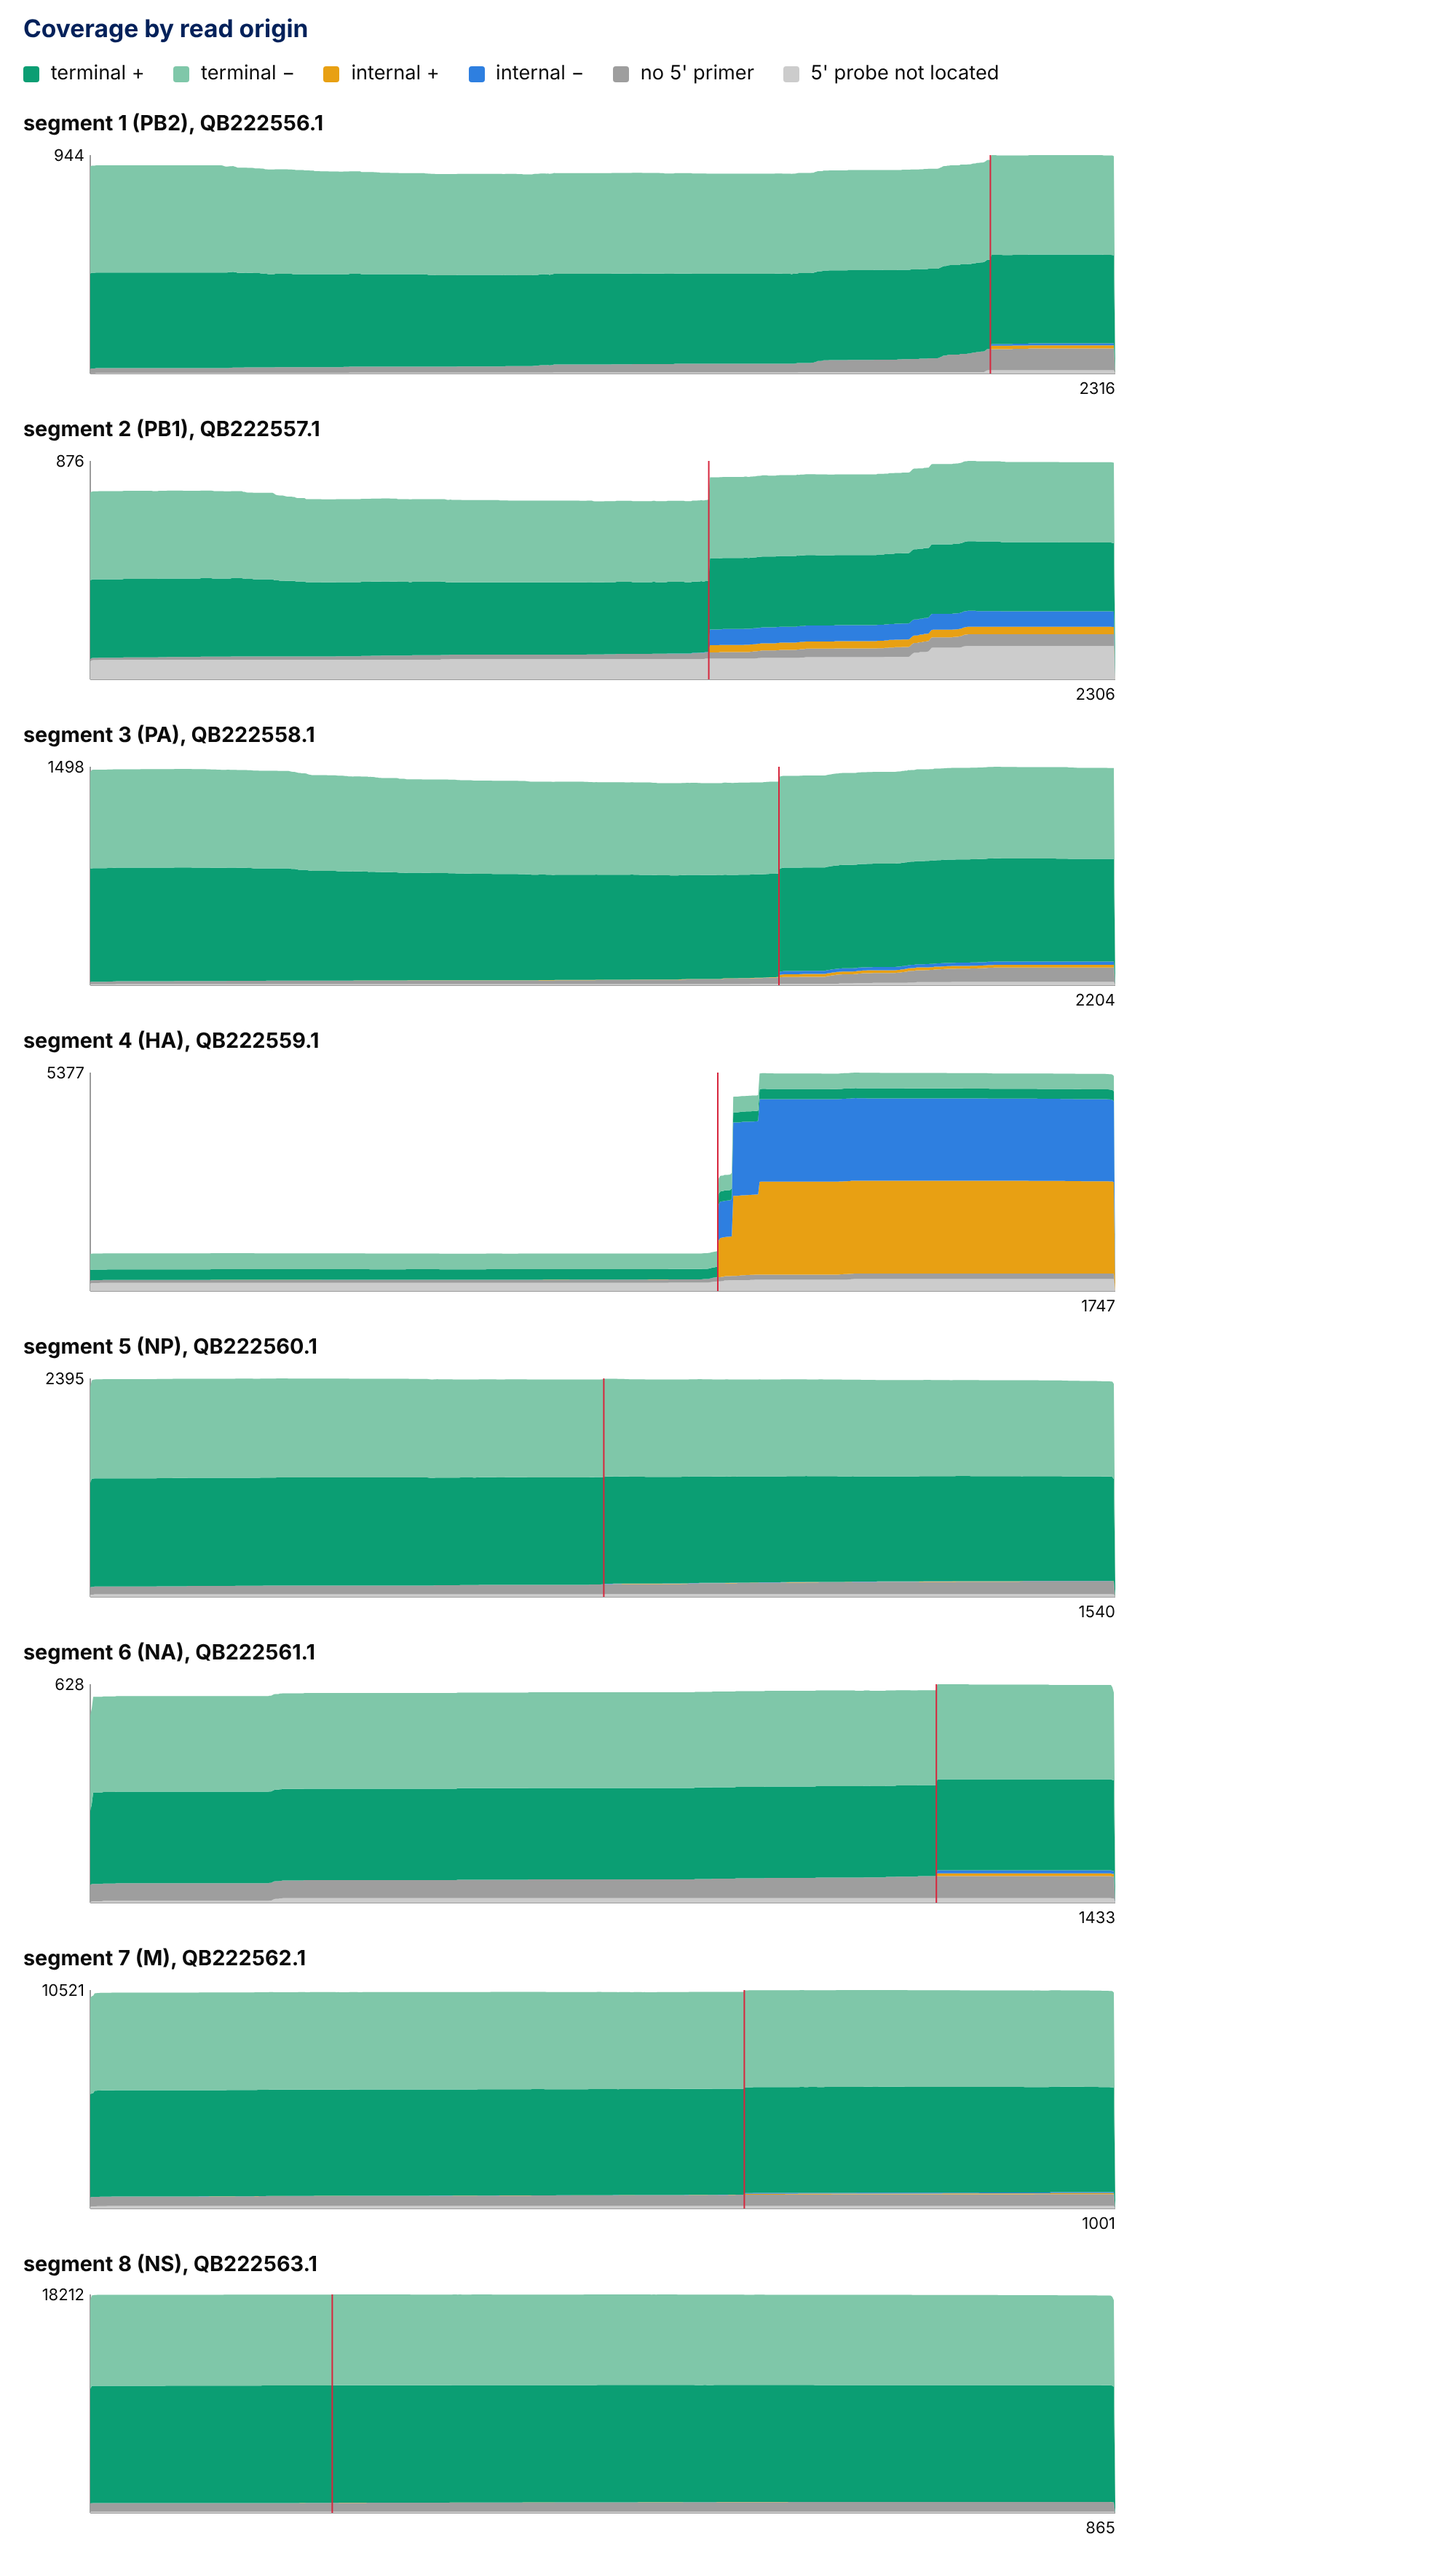
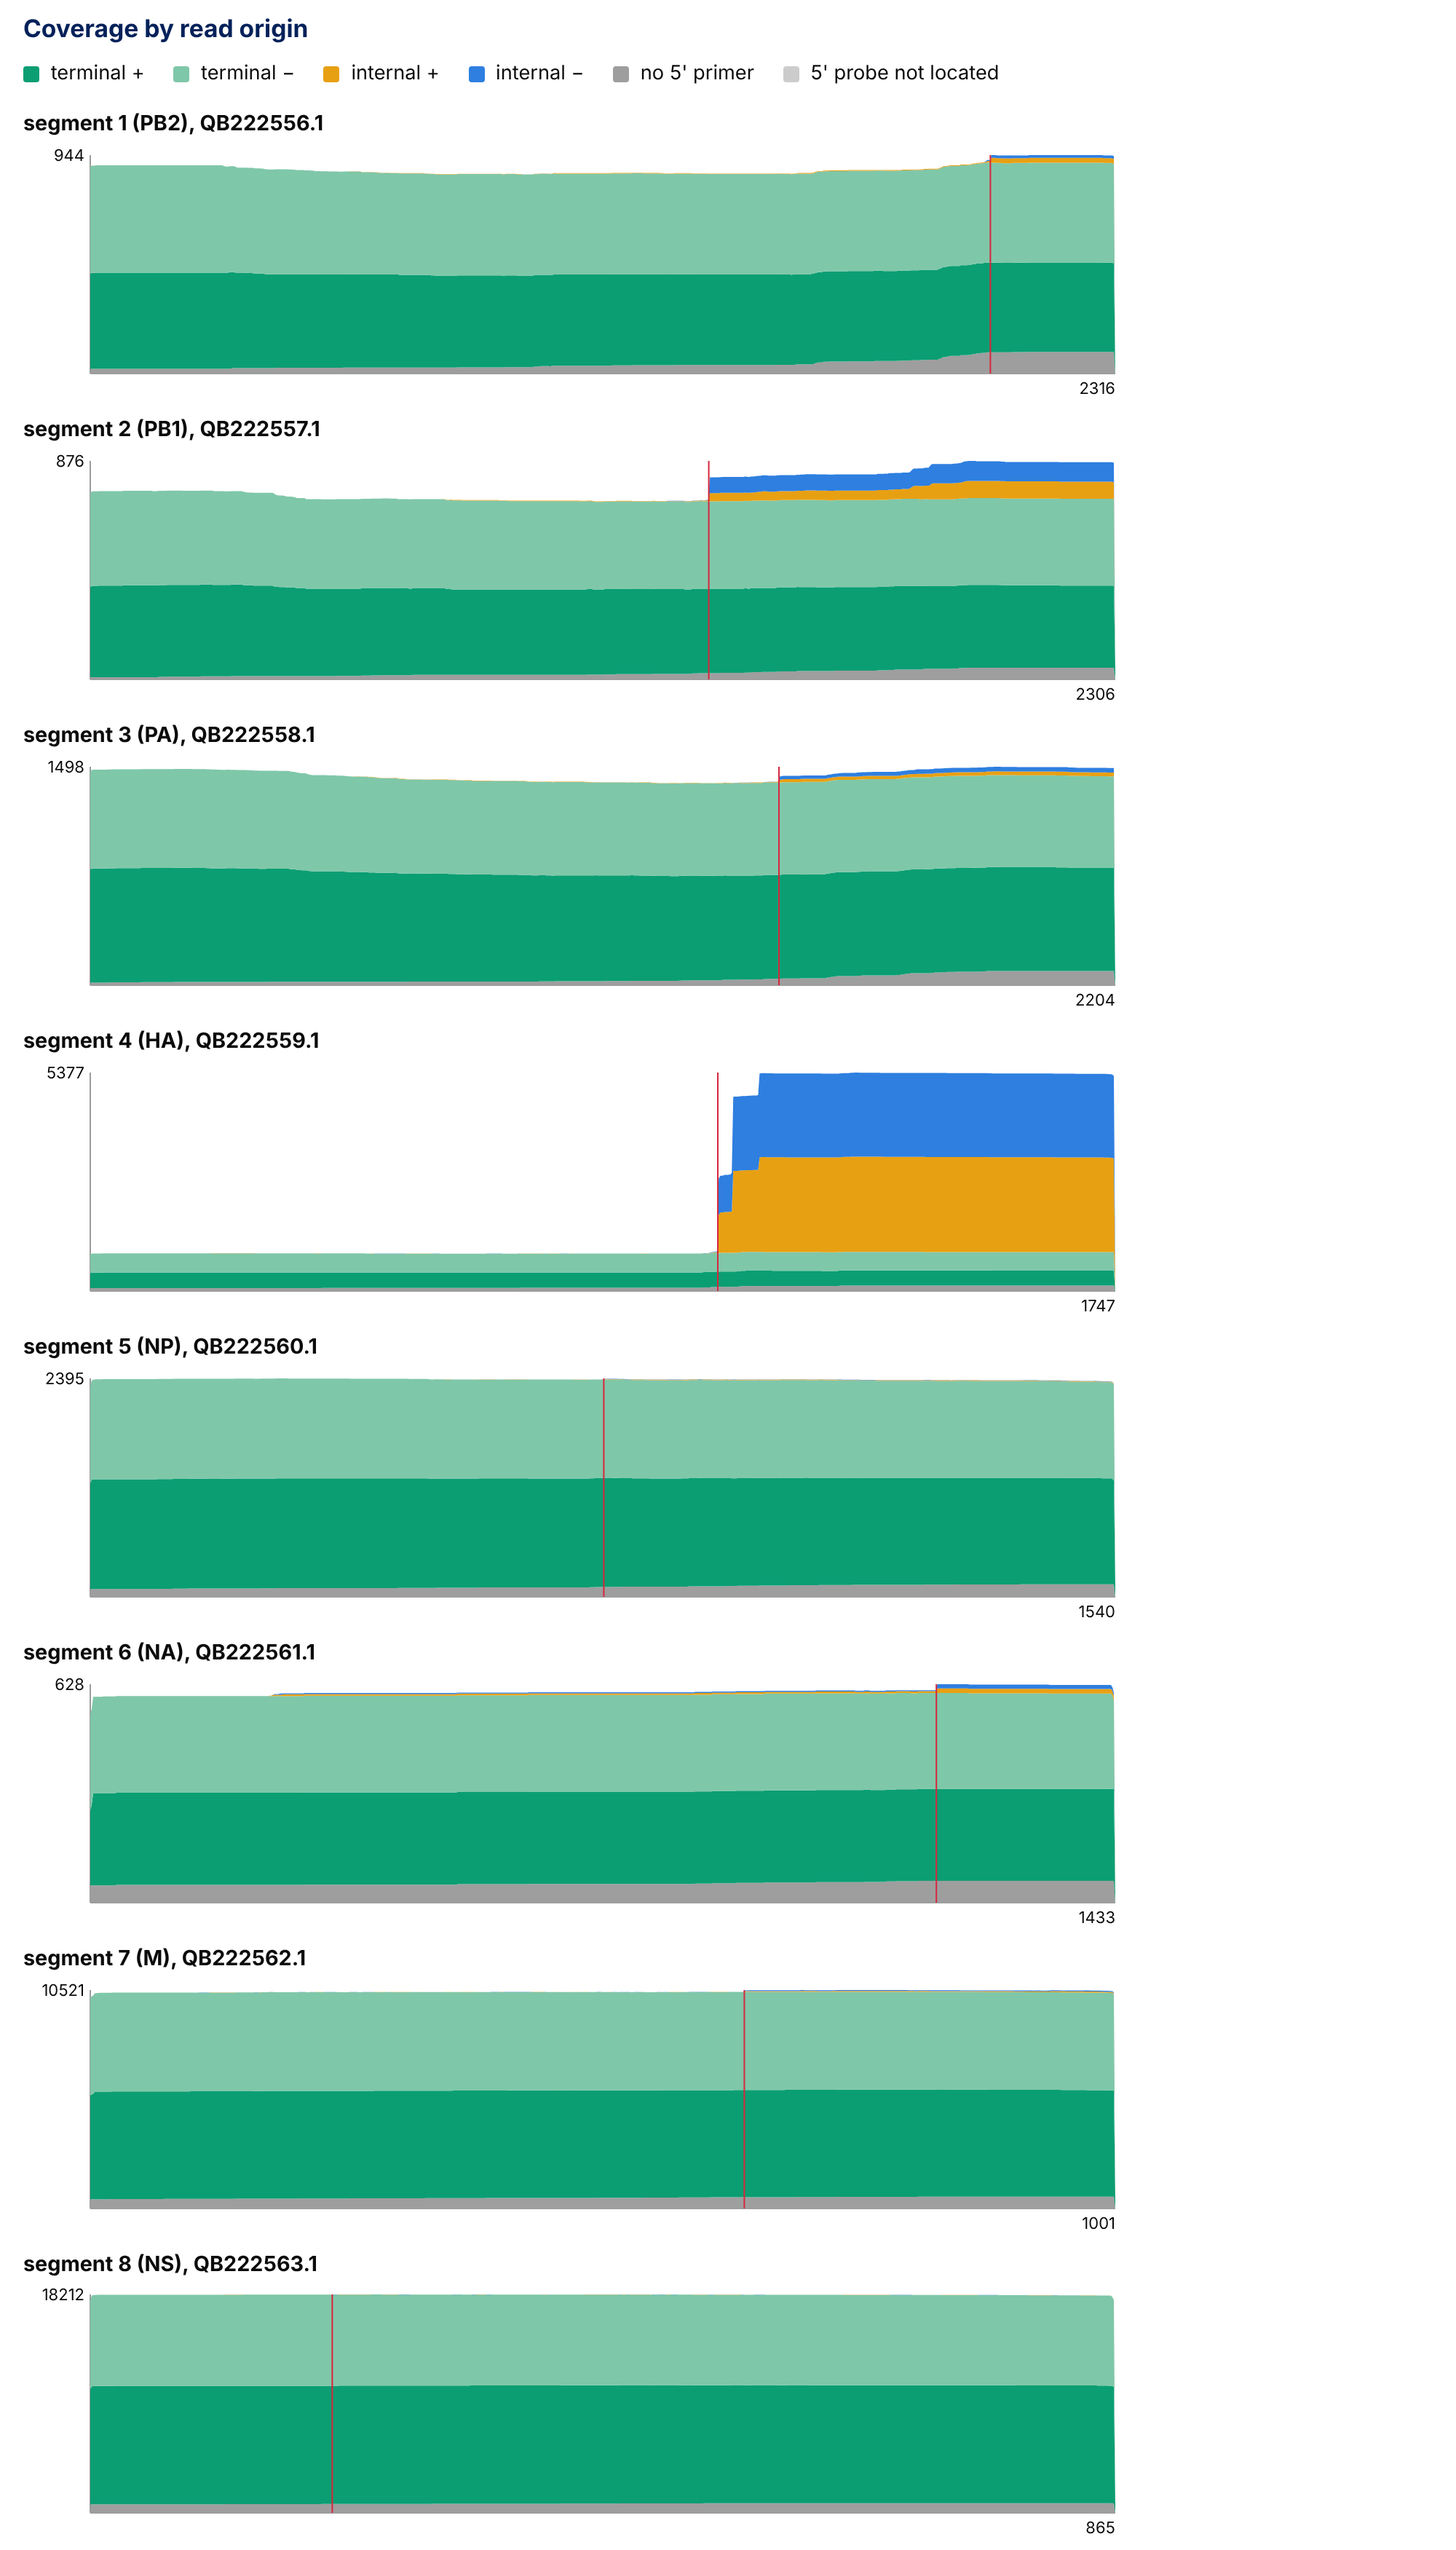
report: stack the coverage so the bands stay horizontal
Order the stacked coverage with the flat categories (terminal, unknown
origin) at the bottom and the internally primed reads on top: a band is
horizontal only when everything below it is flat, and only the internal
reads step (at their site). The terminal baseline and the grey are then
horizontal across the segment, and the internal reads form a horizontal
block that begins at the site.

Changed region(s): [[0.062, 0.0934, 0.775, 0.3424], [0.062, 0.3735, 0.775, 0.5291], [0.186, 0.6536, 0.775, 0.747]]

diff --git a/src/html-report.c b/src/html-report.c
@@ -309,13 +309,17 @@ static const char *const cover_label[COVER_N_CATEGORIES] = {
   "no 5' primer", "5' probe not located"};
 
 /* the order in which the categories are stacked, from the bottom: the
-   reads of unknown 5' origin (grey) at the bottom; then the internally
-   primed reads (amber, blue), which sit on the flat grey base as a
-   straight band whose step at the site is the artefact; then the
-   full-length terminal reads (green) on top */
+   flat categories first, so that the bands stay horizontal. A stacked
+   band is horizontal only when everything below it is flat; the terminal
+   reads and the reads of unknown origin cover the whole segment evenly
+   (flat), while the internally primed reads are absent before their site
+   and present after it (a step). So the grey (unknown) and the green
+   (terminal) are at the bottom as flat bands, and the internally primed
+   reads (amber, blue) are on top, where their step up at the site is the
+   artefact and the bands below stay horizontal */
 static const int cover_order[COVER_N_CATEGORIES] = {
-  COVER_UNMAPPED, COVER_NO_PRIMER, COVER_INTERNAL_PLUS, COVER_INTERNAL_MINUS,
-  COVER_TERMINAL_PLUS, COVER_TERMINAL_MINUS};
+  COVER_UNMAPPED, COVER_NO_PRIMER, COVER_TERMINAL_PLUS, COVER_TERMINAL_MINUS,
+  COVER_INTERNAL_PLUS, COVER_INTERNAL_MINUS};
 
 /* a stacked-area coverage plot of one reference, by read category:
    x the position on the reference, y the number of located reads covering
